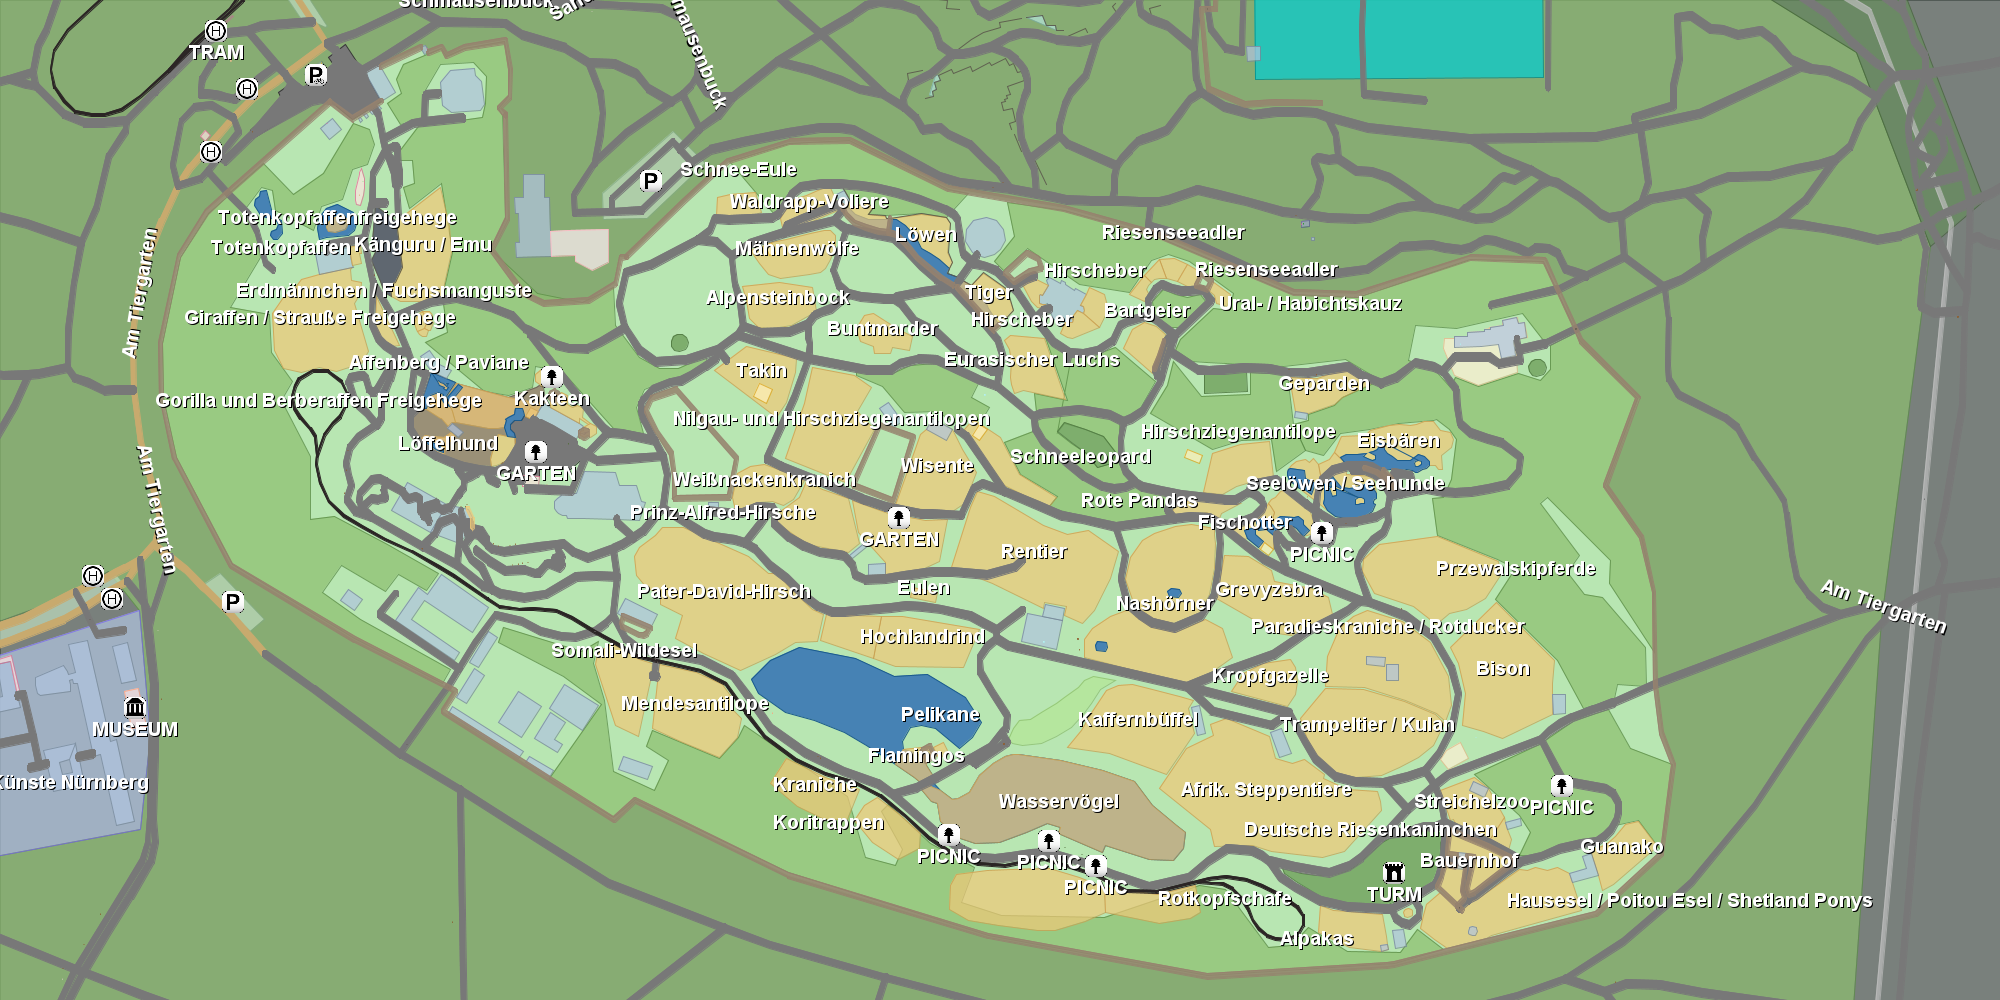
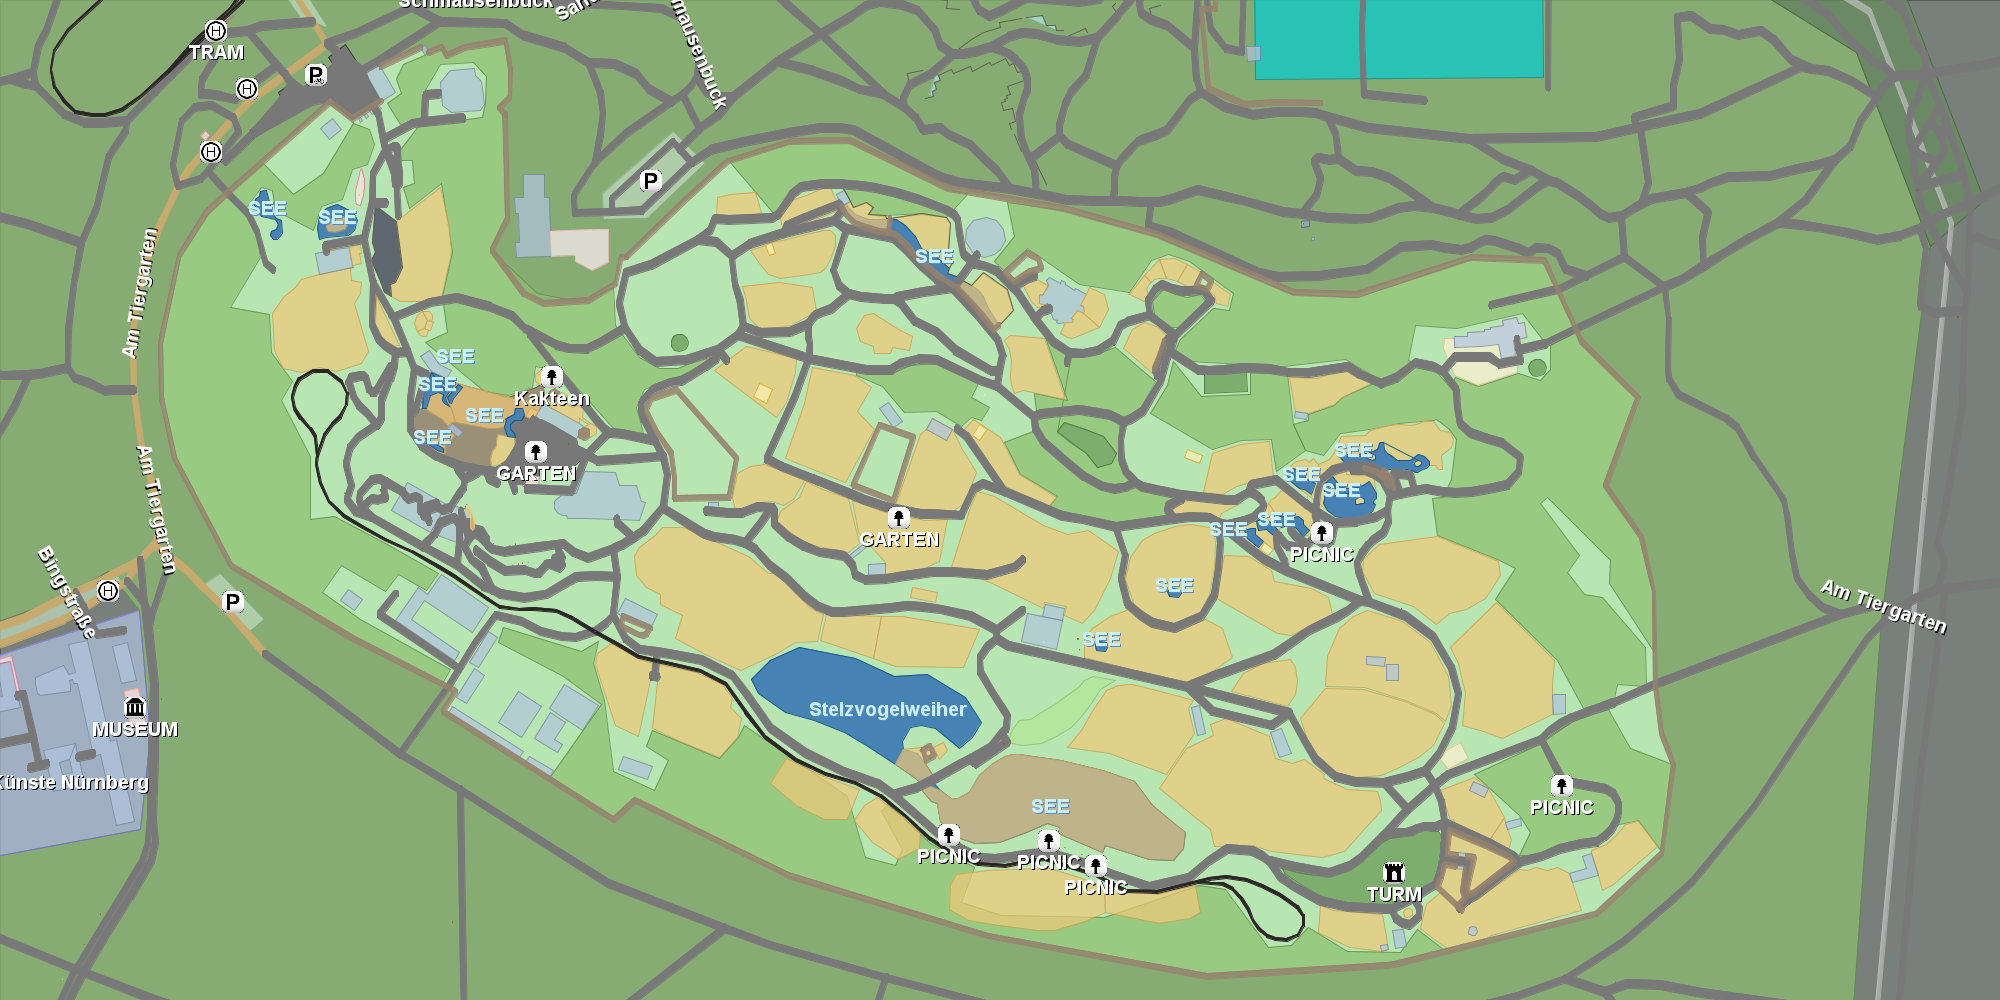
improve water label selection

diff --git a/out/stan/LabelRenderer.java b/out/stan/LabelRenderer.java
@@ -157,11 +157,21 @@ public class LabelRenderer {
     }
 
 
-    public void drawLabels(List<IconDrawInfo> labelOnlyList,List<Shape> usedIconAreas, List<Shape> usedLabelAreas, FontMetrics fm) {
+    public void drawNormalLabels(List<IconDrawInfo> labelOnlyList, List<Shape> usedIconAreas, List<Shape> usedLabelAreas, FontMetrics fm) {
         // Handle label-only entries
         for (IconDrawInfo labelOnly : labelOnlyList) {
             String label = cleanRealName(labelOnly.label());
-            placeAndDrawLabel(g, label, labelOnly.x(), labelOnly.y(), usedIconAreas, usedLabelAreas, fm);
+            placeAndDrawLabel(g, label, labelOnly.x(), labelOnly.y(), usedIconAreas, usedLabelAreas, fm, Color.BLACK, Color.WHITE);
+        }
+    }
+
+    public void drawWaterLabels(List<IconDrawInfo> waterLabelList, List<Shape> usedIconAreas, List<Shape> usedLabelAreas, FontMetrics fm) {
+        Color labelShadow = new Color(90, 140, 200);    // neutral-dunkel
+        Color labelFill = new Color(200, 240, 255);    // helles Eisblau
+        System.out.println("there are " + usedLabelAreas.size() + " water label");
+        for (IconDrawInfo labelOnly : waterLabelList) {
+            String label = cleanRealName(labelOnly.label());
+            placeAndDrawLabel(g, label, labelOnly.x(), labelOnly.y(), usedIconAreas, usedLabelAreas, fm, labelShadow, labelFill);
         }
     }
 
@@ -215,7 +225,7 @@ public class LabelRenderer {
 
                     if (!overlapsIcon && !overlapsLabel && !iconOverLabel && !labelOverIcon) {
                         g.drawImage(img, x, y, iconW, iconH, null);
-                        drawLabel(g, label, labelX, labelY, fm); // pass in fm for consistency
+                        drawLabel(g, label, labelX, labelY, fm, Color.BLACK, Color.WHITE); // pass in fm for consistency
                         usedIconAreas.add(iconBox);
                         usedLabelAreas.add(labelBox);
                         placed = true;
@@ -230,7 +240,7 @@ public class LabelRenderer {
     }
 
     public void placeAndDrawLabel(Graphics2D g, String label, int centerX, int baselineY,
-                                   List<Shape> usedIconAreas, List<Shape> usedLabelAreas, FontMetrics fm) {
+                                   List<Shape> usedIconAreas, List<Shape> usedLabelAreas, FontMetrics fm, Color shadowColor, Color fillColor) {
         int textWidth = fm.stringWidth(label);
         int textHeight = fm.getHeight();
 
@@ -252,20 +262,20 @@ public class LabelRenderer {
             boolean overlapsLabel = usedLabelAreas.stream().anyMatch(r -> r.intersects(labelBox));
 
             if (!overlapsIcon && !overlapsLabel) {
-                drawLabel(g, label, centerX + offset[0], ty, fm);
+                drawLabel(g, label, centerX + offset[0], ty, fm, shadowColor, fillColor);
                 usedLabelAreas.add(labelBox);
                 return;
             }
         }
     }
 
-    private void drawLabel(Graphics2D g, String label, int centerX, int baselineY, FontMetrics metrics) {
+    private void drawLabel(Graphics2D g, String label, int centerX, int baselineY, FontMetrics metrics, Color shadowColor, Color fillColor) {
         int textX = centerX - metrics.stringWidth(label) / 2;
         int textY = baselineY;
 
-        g.setColor(Color.BLACK);
+        g.setColor(shadowColor);
         g.drawString(label, textX + 1, textY + 1); // Shadow
-        g.setColor(Color.WHITE);
+        g.setColor(fillColor);
         g.drawString(label, textX, textY);         // Foreground
     }
 

diff --git a/out/stan/MapRenderer.java b/out/stan/MapRenderer.java
@@ -35,6 +35,7 @@ public class MapRenderer {
     private final List<DrawableFeature> drawableFeatures;
     private final List<IconDrawInfo> iconDrawList = new ArrayList<>();
     private final List<IconDrawInfo> labelOnlyList = new ArrayList<>();
+    private final List<IconDrawInfo> waterLabelList = new ArrayList<>();
     private final List<DomainFeature> streetFeatureList = new ArrayList<>();
 
     public MapRenderer(Geometry targetSquare,
@@ -95,7 +96,8 @@ public class MapRenderer {
 
         // Draw icons and all labels
         labelRenderer.drawIconsAndLabels(iconDrawList, fm, usedIconAreas, usedLabelAreas);
-        labelRenderer.drawLabels(labelOnlyList ,usedIconAreas, usedLabelAreas, fm);
+        labelRenderer.drawNormalLabels(labelOnlyList ,usedIconAreas, usedLabelAreas, fm);
+        labelRenderer.drawWaterLabels(waterLabelList ,usedIconAreas, usedLabelAreas, fm);
         labelRenderer.drawStreetLabels(g, fm, streetFeatureList, usedIconAreas ,usedLabelAreas);
     }
 
@@ -176,6 +178,14 @@ public class MapRenderer {
                 }
                 else
                     addDomainFeatureToGlobalList(feature, fillColor, borderColor, 0.0001);
+
+
+            if (!feature.realname().contains(" WATER ") && !feature.realname().contains(" FLUSS ") && !feature.realname().contains(" SEE ")){  // Dont add water names that are just useless
+                Coordinate center = feature.geometry().getInteriorPoint().getCoordinate();
+                int labelX = toPixelX(center.x);
+                int labelY = toPixelY(center.y);
+                waterLabelList.add(new IconDrawInfo(null, labelX, labelY, 0, 0, feature.realname()));
+            }
         }
     }
 
@@ -296,8 +306,16 @@ public class MapRenderer {
 
         // Draw remaning geoms not in the list
         for (DomainFeature feature : otherGeoms) {
-            if(!feature.realname().contains("Landschaftsschutzgebiet Wöhrder See"))
+            if(!feature.realname().contains("Landschaftsschutzgebiet Wöhrder See"))  // TODO remove wöhrder see
                 addDomainFeatureToGlobalList(feature, fillColor, borderColor, 0);
+
+            // Add zoo things to labelOnlyList
+            if(feature.lsiclass1() == 93140000 && feature.tags().contains("attraction=animal") && !feature.realname().equals("Leer")){
+                Coordinate center = feature.geometry().getCentroid().getCoordinate();
+                int labelX = toPixelX(center.x);
+                int labelY = toPixelY(center.y);
+                labelOnlyList.add(new IconDrawInfo(null, labelX, labelY, 0, 0, feature.realname()));
+            }
         }
     }
 
@@ -368,14 +386,6 @@ public class MapRenderer {
                     "icons/" + displayInfo.icon() + ".png",
                     iconX, iconY, iconSize, iconSize, label
             ));
-        }
-
-        // Add zoo things to labelOnlyList
-        if(feature.lsiclass1() == 93140000 && feature.tags().contains("attraction=animal") && !feature.realname().equals("Leer")){
-            Coordinate center = feature.geometry().getCentroid().getCoordinate();
-            int labelX = toPixelX(center.x);
-            int labelY = toPixelY(center.y);
-            labelOnlyList.add(new IconDrawInfo(null, labelX, labelY, 0, 0, feature.realname()));
         }
     }
 

diff --git a/src/stan/MapRenderer.java b/src/stan/MapRenderer.java
@@ -180,7 +180,7 @@ public class MapRenderer {
                     addDomainFeatureToGlobalList(feature, fillColor, borderColor, 0.0001);
 
 
-            if (!feature.realname().contains("WATER") && !feature.realname().contains("FLUSS")){  // Dont add water names that are just useless
+            if (!feature.realname().contains("WATER") && !feature.realname().contains("FLUSS") && !feature.realname().contains("SEE")){  // Dont add water names that are just useless (All caps, no special name)
                 Coordinate center = feature.geometry().getInteriorPoint().getCoordinate();
                 int labelX = toPixelX(center.x);
                 int labelY = toPixelY(center.y);

diff --git a/src/stan/LabelRenderer.java b/src/stan/LabelRenderer.java
@@ -168,7 +168,6 @@ public class LabelRenderer {
     public void drawWaterLabels(List<IconDrawInfo> waterLabelList, List<Shape> usedIconAreas, List<Shape> usedLabelAreas, FontMetrics fm) {
         Color labelShadow = new Color(90, 140, 200);    // neutral-dunkel
         Color labelFill = new Color(200, 240, 255);    // helles Eisblau
-        System.out.println("there are " + usedLabelAreas.size() + " water label");
         for (IconDrawInfo labelOnly : waterLabelList) {
             String label = cleanRealName(labelOnly.label());
             placeAndDrawLabel(g, label, labelOnly.x(), labelOnly.y(), usedIconAreas, usedLabelAreas, fm, labelShadow, labelFill);
